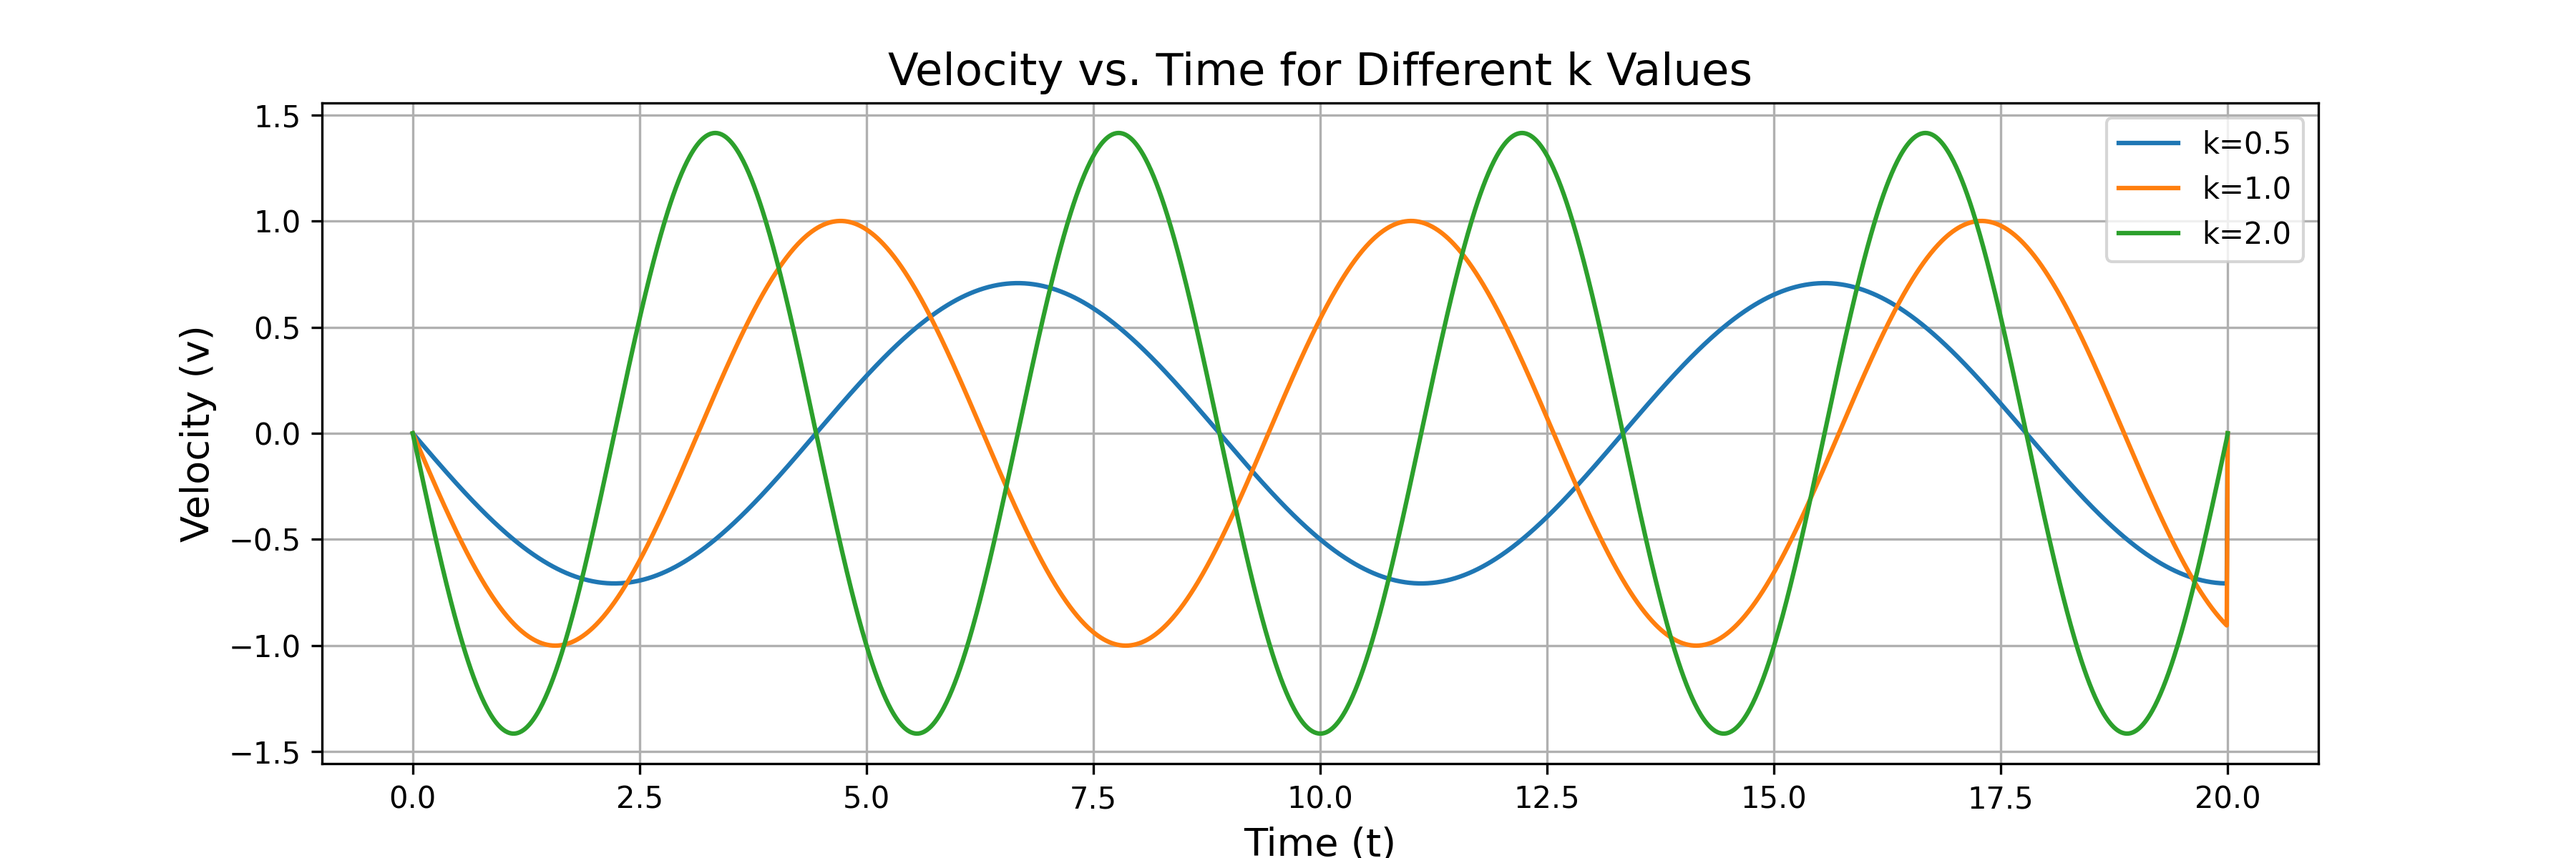
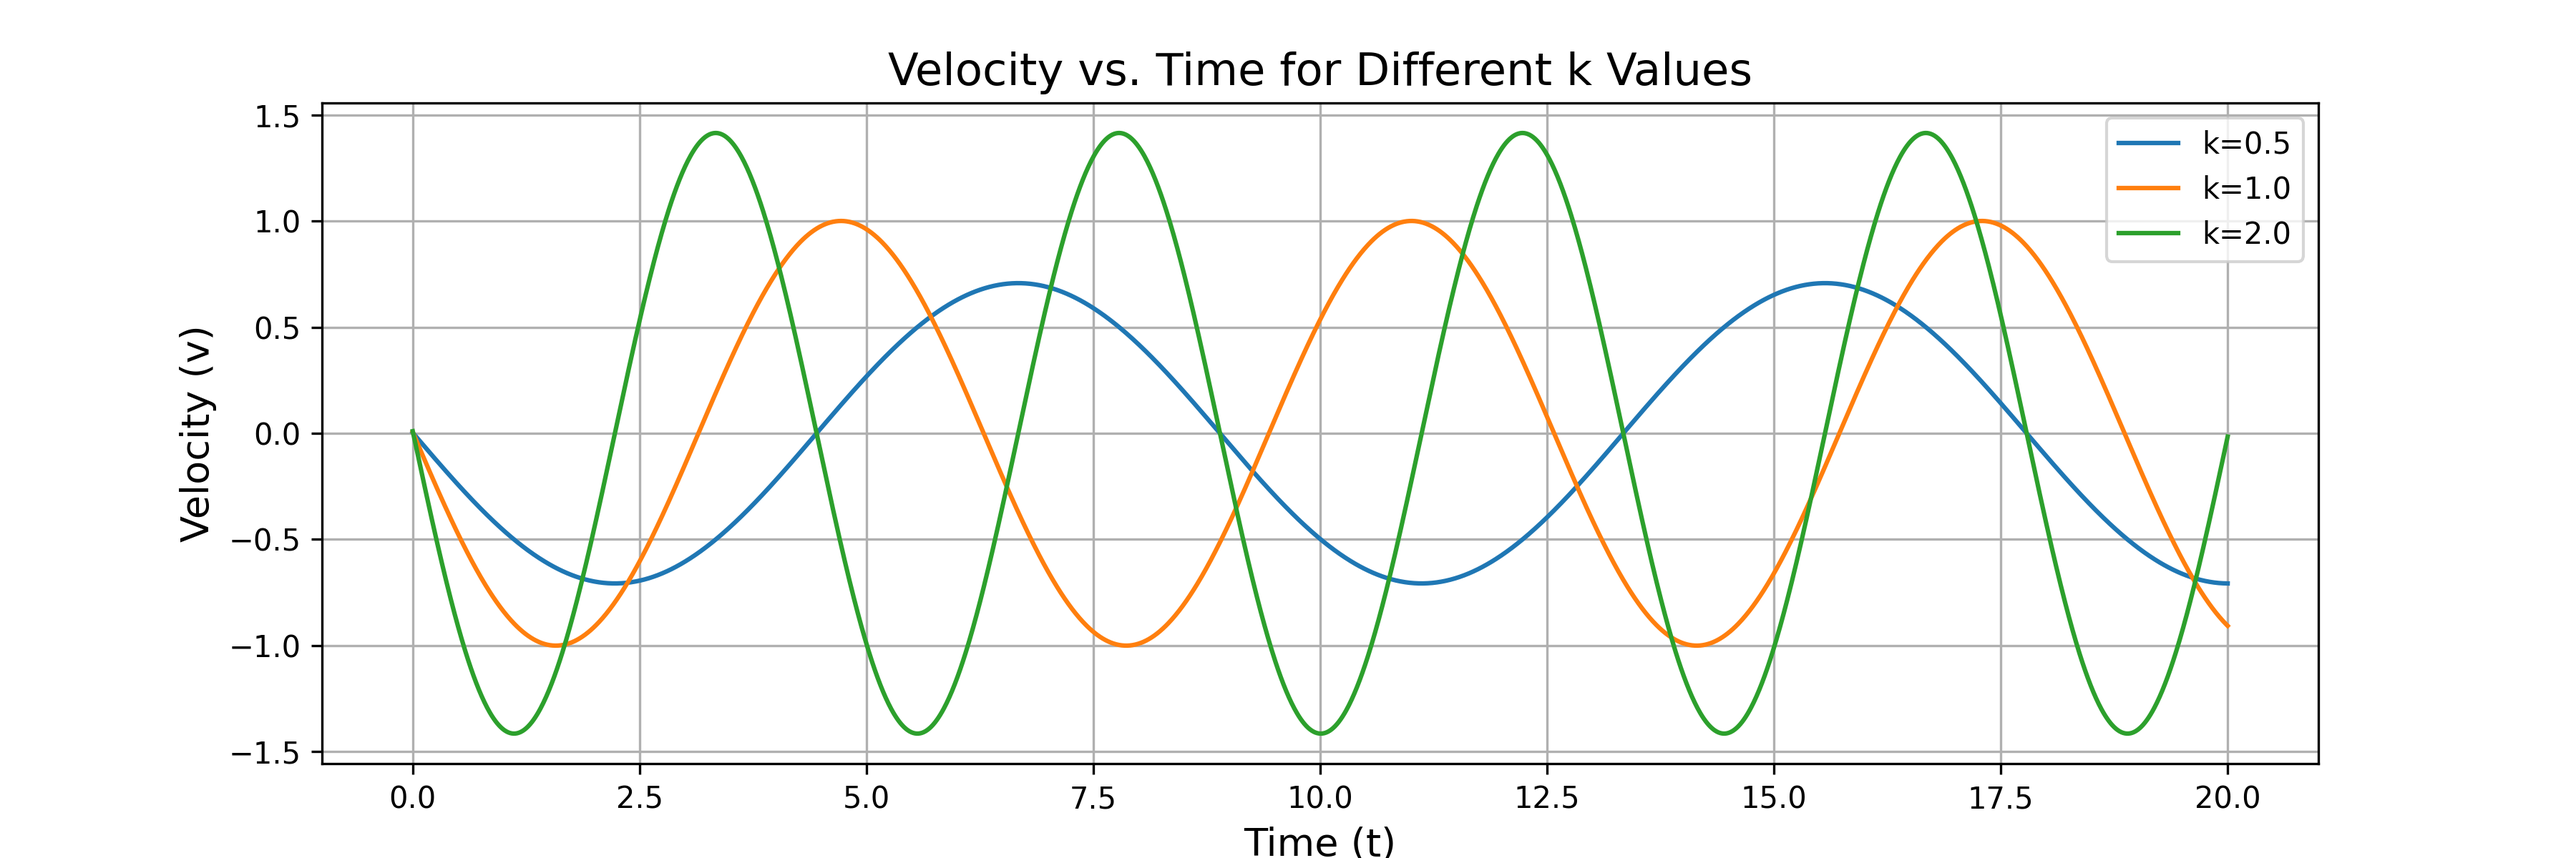
code 3.3 update

Changed region(s): [[0.84, 0.6167, 0.8711, 0.7092]]

diff --git a/homework3/src/exercise3.3.py b/homework3/src/exercise3.3.py
@@ -31,20 +31,22 @@ def leapfrog_harmonic_oscillator(k, x0, v0, dt, T):
     t = np.linspace(0, T, N)  # Time array
 
     x = np.zeros(N)
-    v = np.zeros(N)
+    v_half = np.zeros(N)  # Velocity at half-steps
 
     # Initial conditions
     x[0] = x0
-    v_half = v0 - 0.5 * dt * (-k * x0 / m)  # Compute v at t = dt/2 (first half-step)
+    v_half[0] = v0 - 0.5 * dt * (-k * x0 / m)  # Initialize v at t = dt/2
 
     # Leapfrog integration loop
     for n in range(N - 1):
-        x[n + 1] = x[n] + dt * v_half  # Position update at full step
+        x[n + 1] = x[n] + dt * v_half[n]  # Position update at full step
         a_new = -k * x[n + 1] / m  # Compute new acceleration
-        v_half = v_half + dt * a_new  # Velocity update at half-step
-        v[n] = v_half - 0.5 * dt * a_new  # Approximate velocity at integer time steps
+        v_half[n + 1] = v_half[n] + dt * a_new  # Velocity update at half-step
 
-    return t, x, v
+    # Approximate velocity at integer time steps (optional, if needed)
+    v = v_half + 0.5 * dt * (-k * x / m)  # Optional: approximate v at integer steps
+
+    return t, x, v_half  # Return v_half instead of v
 
 # ----------------- Task J: Adding external driving force ----------------- #
 def leapfrog_driven_oscillator(k, A, omega, x0, v0, dt, T):
@@ -61,27 +63,29 @@ def leapfrog_driven_oscillator(k, A, omega, x0, v0, dt, T):
     T     - Total simulation time
 
     Returns:
-    t, x, v - Time, position, and velocity arrays
+    t, x, v_half - Time, position, and velocity (at half-steps) arrays
     """
     m = 1  # Given that mass is 1
     N = int(T / dt)
     t = np.linspace(0, T, N)
 
     x = np.zeros(N)
-    v = np.zeros(N)
+    v_half = np.zeros(N)  # Velocity at half-steps
 
     # Initial conditions
     x[0] = x0
-    v_half = v0 - 0.5 * dt * (-k * x0 / m + A * np.cos(0) / m)  # Initialize v at t = dt/2
+    v_half[0] = v0 - 0.5 * dt * (-k * x0 / m + A * np.cos(0) / m)  # Initialize v at t = dt/2
 
     # Leapfrog integration loop
     for n in range(N - 1):
-        x[n + 1] = x[n] + dt * v_half  # Position update
+        x[n + 1] = x[n] + dt * v_half[n]  # Position update
         a_new = (-k * x[n + 1] + A * np.cos(omega * t[n + 1])) / m  # Acceleration with external force
-        v_half = v_half + dt * a_new  # Velocity update
-        v[n] = v_half - 0.5 * dt * a_new  # Approximate v at integer time steps
+        v_half[n + 1] = v_half[n] + dt * a_new  # Velocity update at half-step
 
-    return t, x, v
+    # Approximate velocity at integer time steps (optional, if needed)
+    v = v_half + 0.5 * dt * (-k * x / m + A * np.cos(omega * t) / m)  # Optional: approximate v at integer steps
+
+    return t, x, v_half  # Return v_half instead of v
 
 # ----------------- Extra Bonus: Compare Leapfrog with RK45 ----------------- #
 def harmonic_oscillator_ode(t, y, k):
@@ -96,7 +100,7 @@ def compare_leapfrog_rk45(k, x0, v0, dt, T):
     Compare Leapfrog method with RK45 for a harmonic oscillator.
     """
     # Leapfrog method
-    t_leapfrog, x_leapfrog, v_leapfrog = leapfrog_harmonic_oscillator(k, x0, v0, dt, T)
+    t_leapfrog, x_leapfrog, v_half_leapfrog = leapfrog_harmonic_oscillator(k, x0, v0, dt, T)
 
     # RK45 method
     sol = solve_ivp(harmonic_oscillator_ode, (0, T), [x0, v0], args=(k,), method='RK45', t_eval=t_leapfrog)
@@ -107,8 +111,8 @@ def compare_leapfrog_rk45(k, x0, v0, dt, T):
 
     # Leapfrog Phase Space Plot
     plt.subplot(1, 2, 1)
-    plt.plot(x_leapfrog[:1000], v_leapfrog[:1000], label='Leapfrog (0-10s)')
-    plt.plot(x_leapfrog[-1000:], v_leapfrog[-1000:], label='Leapfrog (90-100s)')
+    plt.plot(x_leapfrog[:1000], v_half_leapfrog[:1000], label='Leapfrog (0-10s)')
+    plt.plot(x_leapfrog[-1000:], v_half_leapfrog[-1000:], label='Leapfrog (90-100s)')
     plt.xlabel("Position (x)", fontsize=20)
     plt.ylabel("Velocity (v)", fontsize=20)
     plt.title("Leapfrog Method", fontsize=22)
@@ -153,8 +157,8 @@ def plot_results():
     # Task I: Velocity vs. Time
     plt.figure(figsize=(12, 4))
     for k in k_values:
-        t, _, v = leapfrog_harmonic_oscillator(k, x0, v0, dt, T_taskI)
-        plt.plot(t, v, label=f"k={k}")
+        t, _, v_half = leapfrog_harmonic_oscillator(k, x0, v0, dt, T_taskI)
+        plt.plot(t, v_half, label=f"k={k}")
     plt.xlabel("Time (t)", fontsize=13)
     plt.ylabel("Velocity (v)", fontsize=13)
     plt.title("Velocity vs. Time for Different k Values", fontsize=15)
@@ -166,8 +170,8 @@ def plot_results():
     # Task I: Phase Space (v vs. x)
     plt.figure(figsize=(12, 4))
     for k in k_values:
-        t, x, v = leapfrog_harmonic_oscillator(k, x0, v0, dt, T_taskI)
-        plt.plot(x, v, label=f"k={k}")
+        t, x, v_half = leapfrog_harmonic_oscillator(k, x0, v0, dt, T_taskI)
+        plt.plot(x, v_half, label=f"k={k}")
     plt.xlabel("Position (x)", fontsize=13)
     plt.ylabel("Velocity (v)", fontsize=13)
     plt.title("Phase Space (v vs. x) for Different k Values", fontsize=15)
@@ -185,8 +189,8 @@ def plot_results():
     # Task J: Combined Phase Space
     plt.figure(figsize=(8, 6))
     for i, omega in enumerate(omega_values):
-        t, x, v = leapfrog_driven_oscillator(1.0, A, omega, x0, v0, dt, T_taskJ)
-        plt.plot(x, v, color=colors[i], label=f"ω={omega}")
+        t, x, v_half = leapfrog_driven_oscillator(1.0, A, omega, x0, v0, dt, T_taskJ)
+        plt.plot(x, v_half, color=colors[i], label=f"ω={omega}")
     plt.xlabel("Position (x)", fontsize=20)
     plt.ylabel("Velocity (v)", fontsize=20)
     plt.title("Combined Phase Space (v vs. x)", fontsize=22)
@@ -197,9 +201,9 @@ def plot_results():
 
     # Task J: Individual Phase Space for each omega
     for i, omega in enumerate(omega_values):
-        t, x, v = leapfrog_driven_oscillator(1.0, A, omega, x0, v0, dt, T_taskJ)
+        t, x, v_half = leapfrog_driven_oscillator(1.0, A, omega, x0, v0, dt, T_taskJ)
         plt.figure(figsize=(8, 6))
-        plt.plot(x, v, color=colors[i], label=f"ω={omega}")
+        plt.plot(x, v_half, color=colors[i], label=f"ω={omega}")
         plt.xlabel("Position (x)", fontsize=20)
         plt.ylabel("Velocity (v)", fontsize=20)
         plt.title(f"Phase Space for ω={omega}", fontsize=22)
@@ -208,6 +212,7 @@ def plot_results():
         plt.savefig(os.path.join("homework3/figure/figure3.3", f"taskJ_phase_space_omega_{omega}.png"), dpi=300)  # Save the figure
         plt.show()
 
+    
 # ----------------- Main Execution ----------------- #
 if __name__ == "__main__":
     # Create the figure/figure3.3 directory if it does not exist
